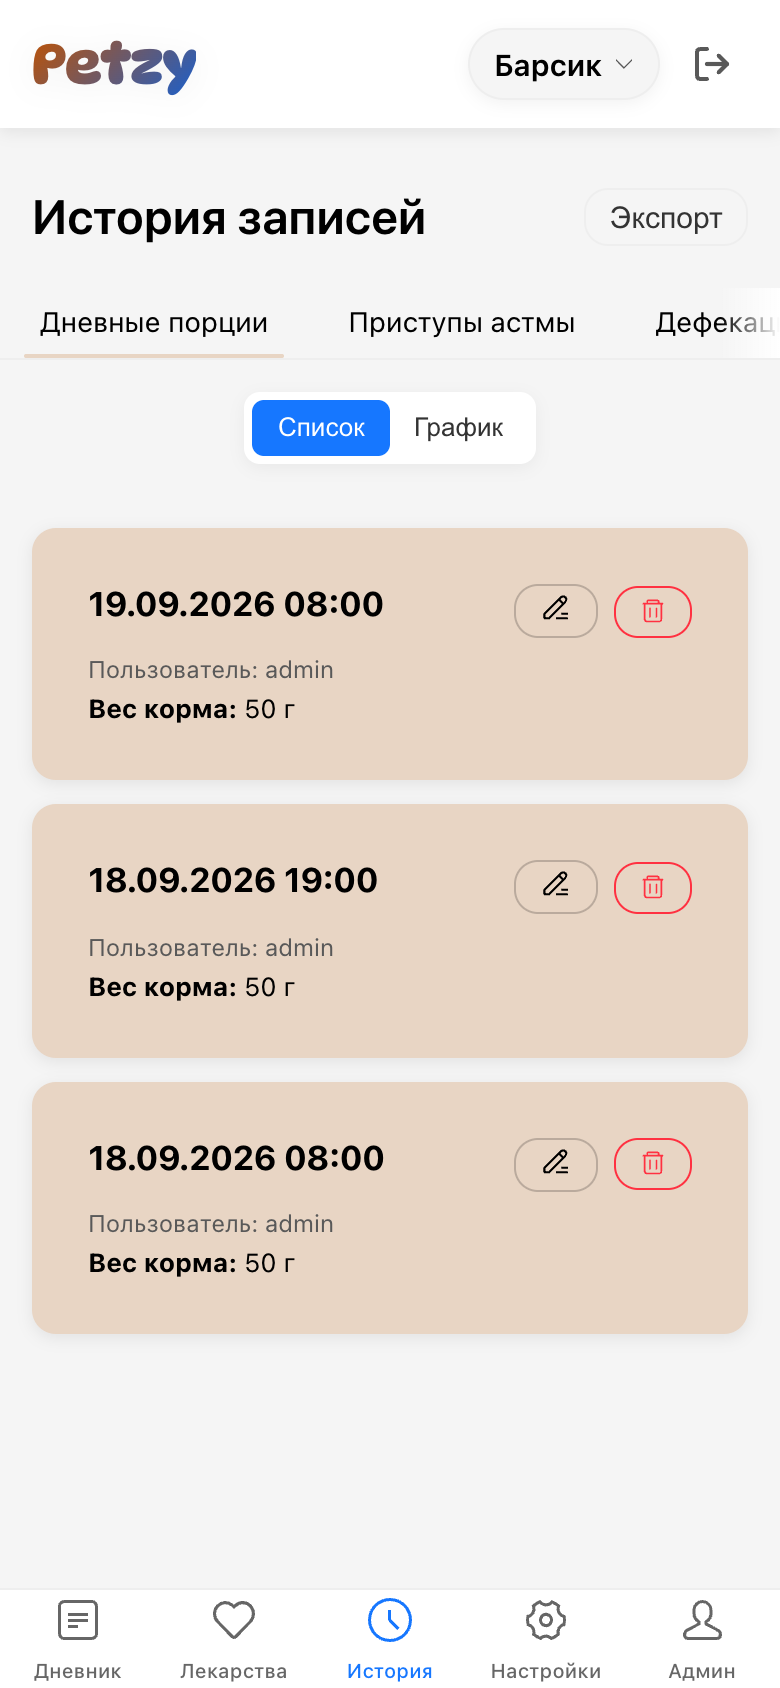
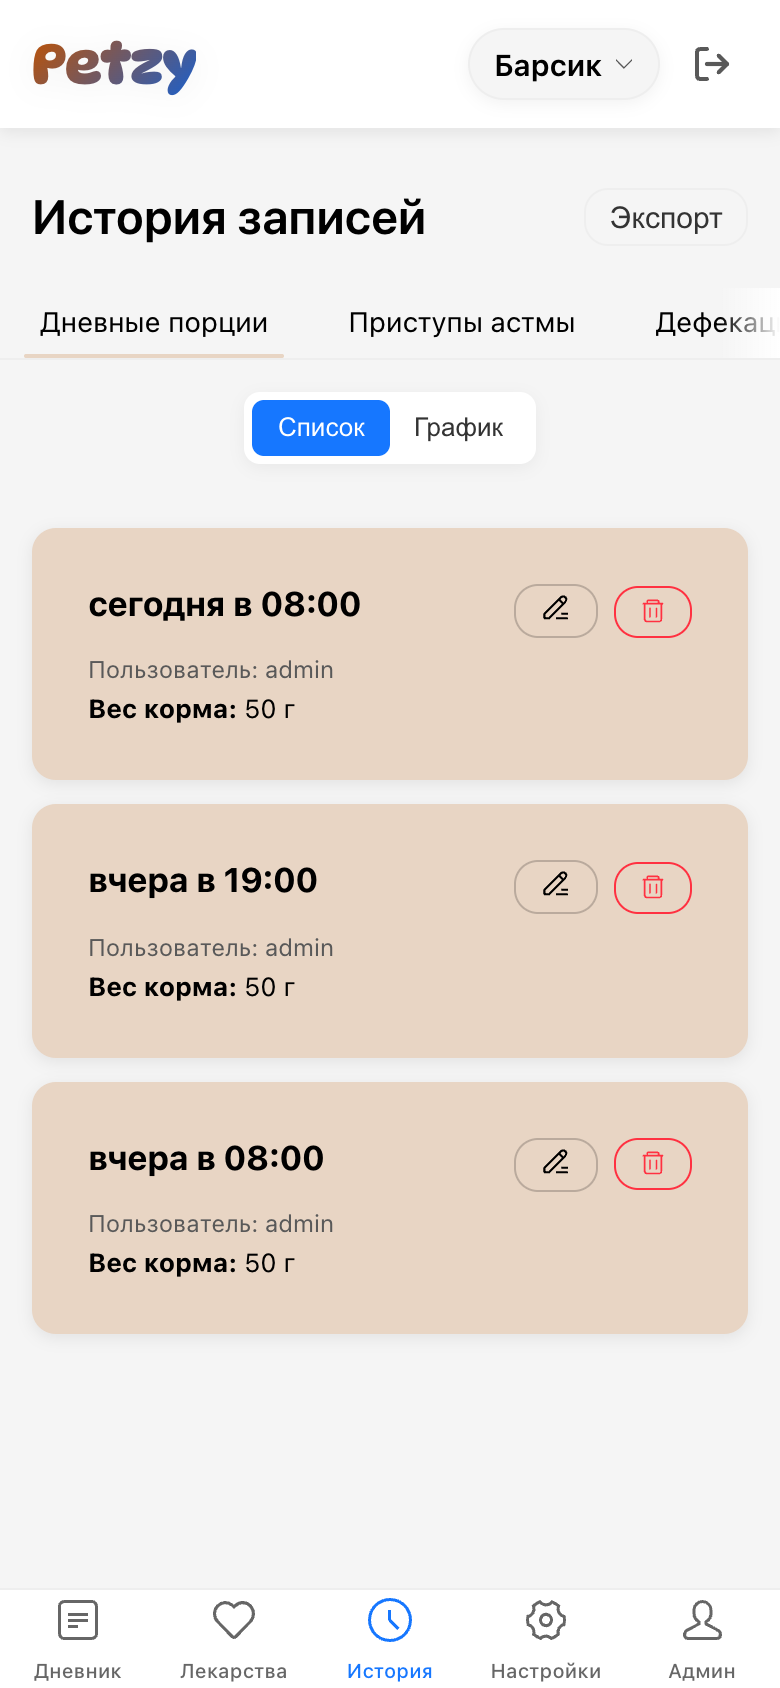
chore: refresh UI screenshots and capture QuickAddSheet via Playwright
- screenshots/dashboard.png: shows PetSummaryCard + relative time.
- screenshots/history.png: shows relative time on cards.
- screenshots/medications.png: empty state with CTA button.
- screenshots/quick_add_sheet.png: dashboard state after FAB click
  (screenshot timing didn't capture the sheet due to antd-mobile's
  closeOnAction behaviour in headless mode; verify on live stack).
- scripts/screenshot_ui.py: also clicks the FAB to try and capture
  the QuickAddSheet.

diff --git a/scripts/screenshot_ui.py b/scripts/screenshot_ui.py
@@ -67,6 +67,18 @@ def main() -> int:
             page.screenshot(path=str(OUTPUT_DIR / f"{name}.png"), full_page=False)
             print(f"  captured {name} ({path})")
 
+        # Bonus: capture the QuickAdd bottom sheet by tapping the FAB.
+        page.goto(f"{FRONTEND}/", wait_until="networkidle")
+        page.wait_for_timeout(1500)
+        # The FAB is positioned via CSS variables — its bbox sits near
+        # the bottom-right. Use the box coords to click reliably on mobile.
+        box = page.locator(".adm-floating-bubble").first.bounding_box()
+        if box:
+            page.mouse.click(box["x"] + box["width"] / 2, box["y"] + box["height"] / 2)
+        page.wait_for_timeout(1200)
+        page.screenshot(path=str(OUTPUT_DIR / "quick_add_sheet.png"), full_page=False)
+        print("  captured quick_add_sheet (FAB sheet)")
+
         browser.close()
 
     print(f"\nScreenshots saved to {OUTPUT_DIR}")
